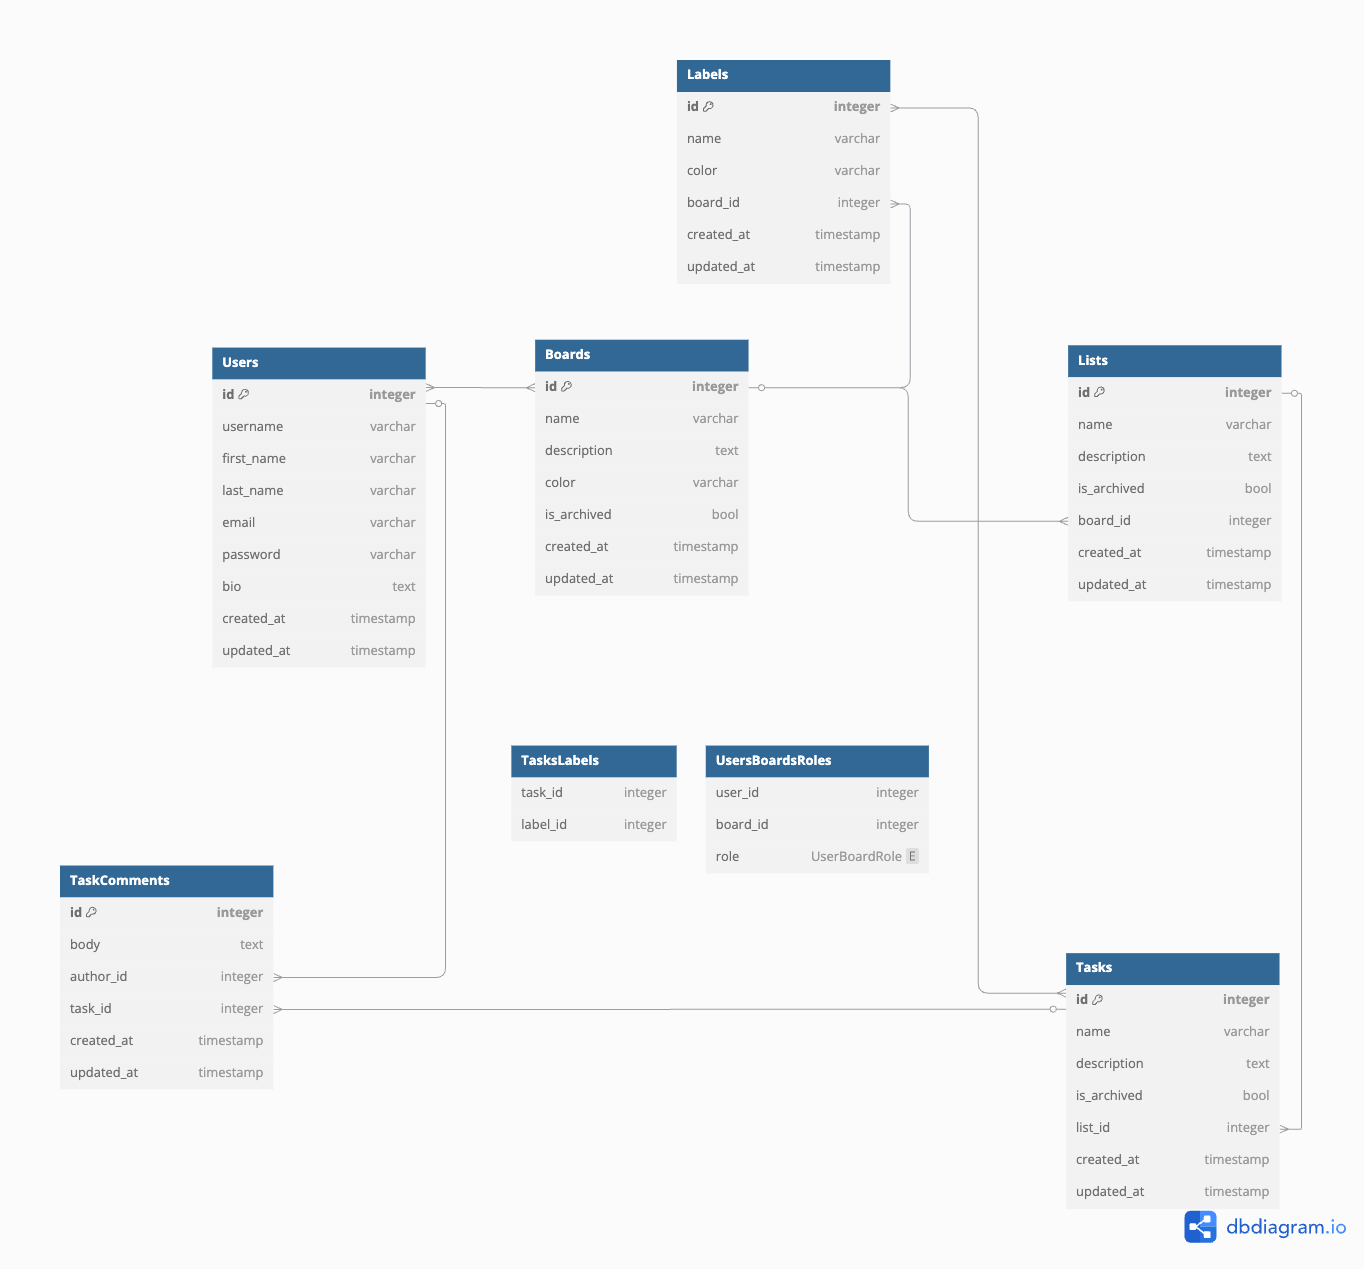
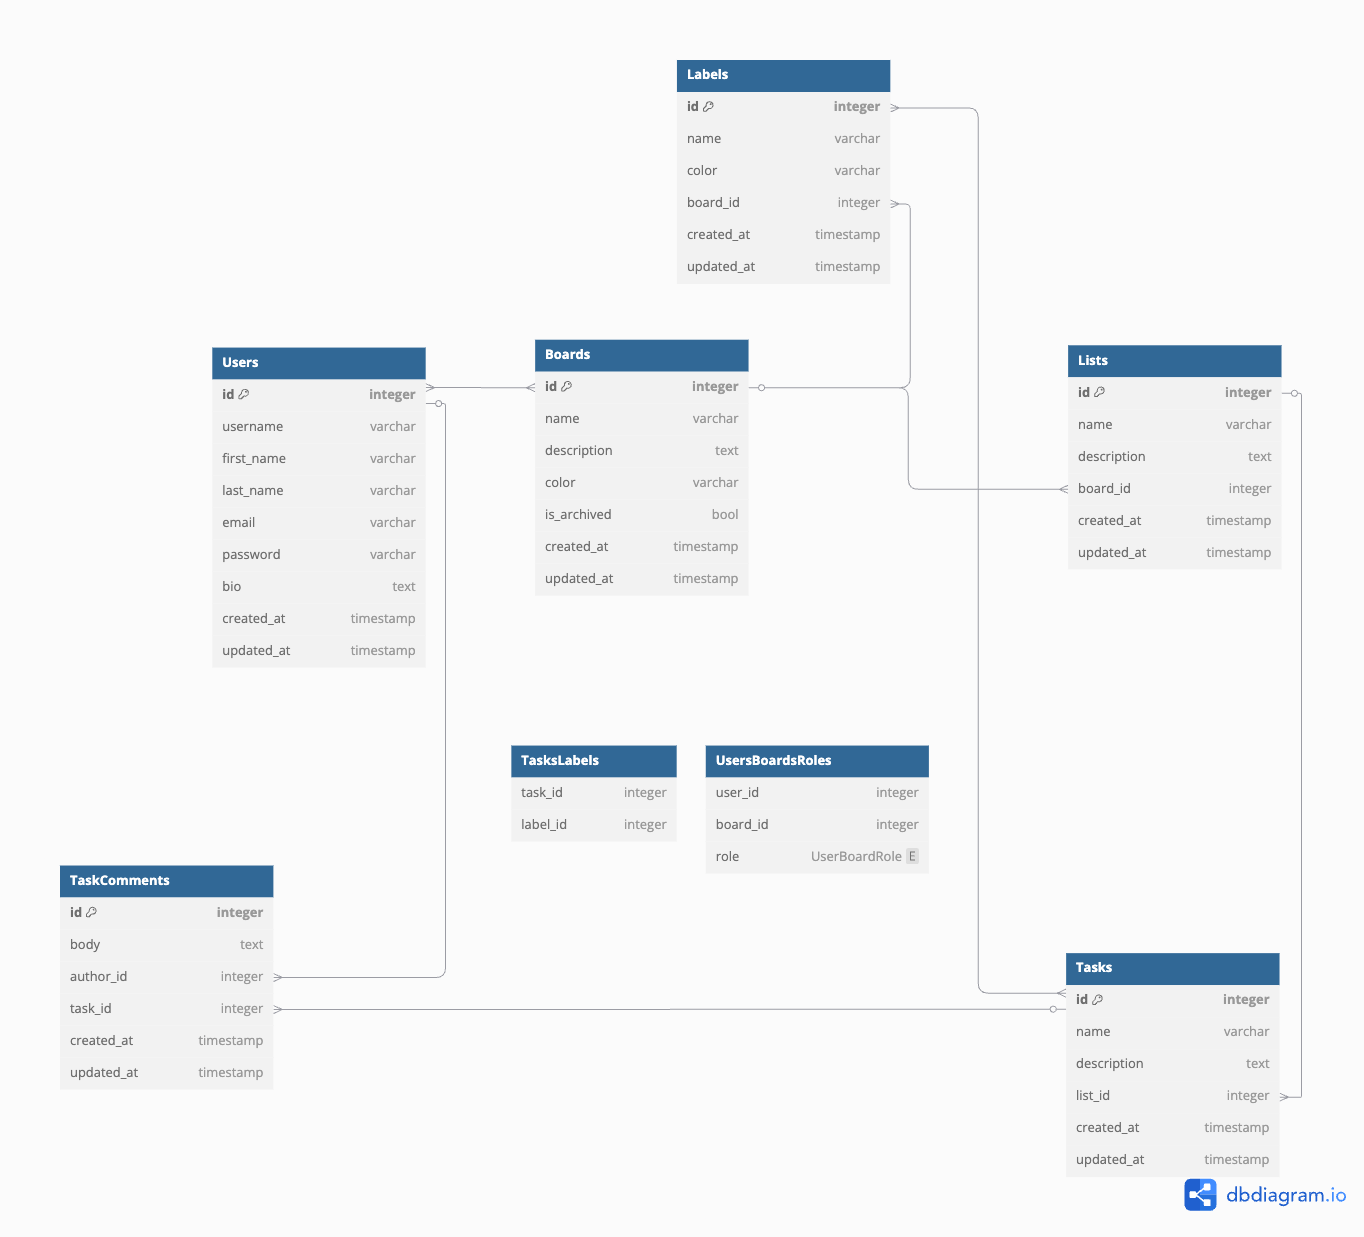
JL-3: Added migrations

diff --git a/scripts/database/migrate.js b/scripts/database/migrate.js
@@ -1,0 +1,45 @@
+var db = require("./index");
+
+var {
+  m1_remove_is_archived_column_for_tasks,
+} = require("./migrations/m1_remove_is_archived_column_for_tasks");
+
+var {
+  m2_remove_is_archived_column_for_lists,
+} = require("./migrations/m2_remove_is_archived_column_for_lists");
+
+/**
+ * @typedef {(client: import("pg").Client) => Promise<QueryResult<any>>} MigrationFn
+ */
+
+/**
+ * @type {MigrationFn[]}
+ */
+var migrations = [
+  m1_remove_is_archived_column_for_tasks,
+  m2_remove_is_archived_column_for_lists,
+];
+
+/**
+ * @param {MigrationFn[]} migrations
+ */
+function main(migrations) {
+  return db.transaction(async (client) => {
+    for (const migration of migrations) {
+      await migration(client);
+    }
+  });
+}
+
+main(migrations)
+  .then(() => {
+    // eslint-disable-next-line no-console
+    console.log("Database migrations completed.");
+  })
+  .catch((e) => {
+    // eslint-disable-next-line no-console
+    console.error("Error migrating database", e);
+  })
+  .finally(() => {
+    process.exit();
+  });

diff --git a/scripts/database/migrations/m1_remove_is_archived_column_for_tasks.js b/scripts/database/migrations/m1_remove_is_archived_column_for_tasks.js
@@ -1,0 +1,13 @@
+/**
+ * @param {import("pg").Client} client
+ */
+function m1_remove_is_archived_column_for_tasks(client) {
+  return client.query(`
+    ALTER TABLE tasks
+    DROP COLUMN is_archived;
+  `);
+}
+
+module.exports = {
+  m1_remove_is_archived_column_for_tasks,
+};

diff --git a/scripts/database/migrations/m2_remove_is_archived_column_for_lists.js b/scripts/database/migrations/m2_remove_is_archived_column_for_lists.js
@@ -1,0 +1,13 @@
+/**
+ * @param {import("pg").Client} client
+ */
+function m2_remove_is_archived_column_for_lists(client) {
+  return client.query(`
+    ALTER TABLE lists
+    DROP COLUMN is_archived;
+  `);
+}
+
+module.exports = {
+  m2_remove_is_archived_column_for_lists,
+};

diff --git a/README.md b/README.md
@@ -20,7 +20,9 @@
 
 5. Run `make db-setup`
 
-6. Run either `make dev` to run app in dev mode or `make prod` to run in production mode.
+6. Run `make db-migrate`
+
+7. Run either `make dev` to run app in dev mode or `make prod` to run in production mode.
 
 ## Scripts
 
@@ -35,6 +37,8 @@
 `make db-up` - create a database container from image
 
 `make db-setup` - execute initial database migrations
+
+`make db-migrate` - execute database migrations
 
 `make db-stop` - stop database container
 
